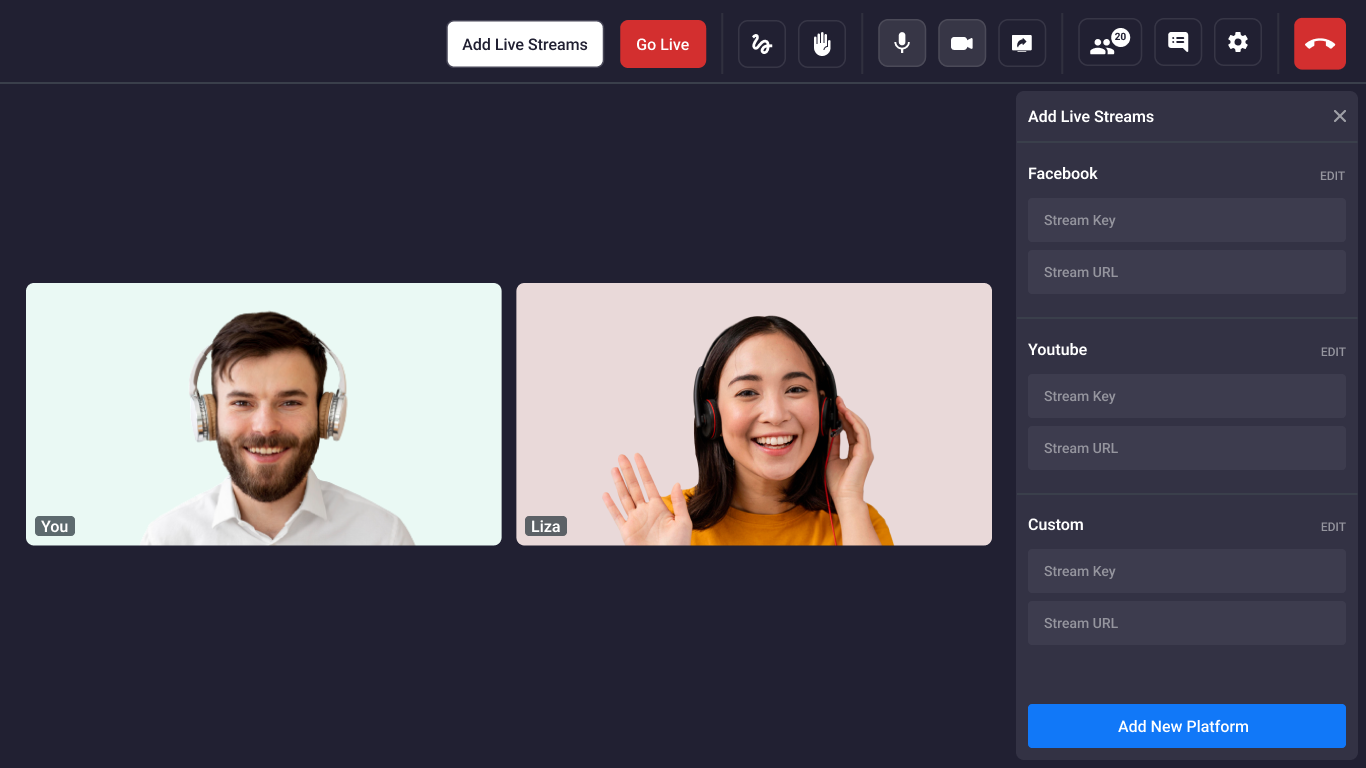
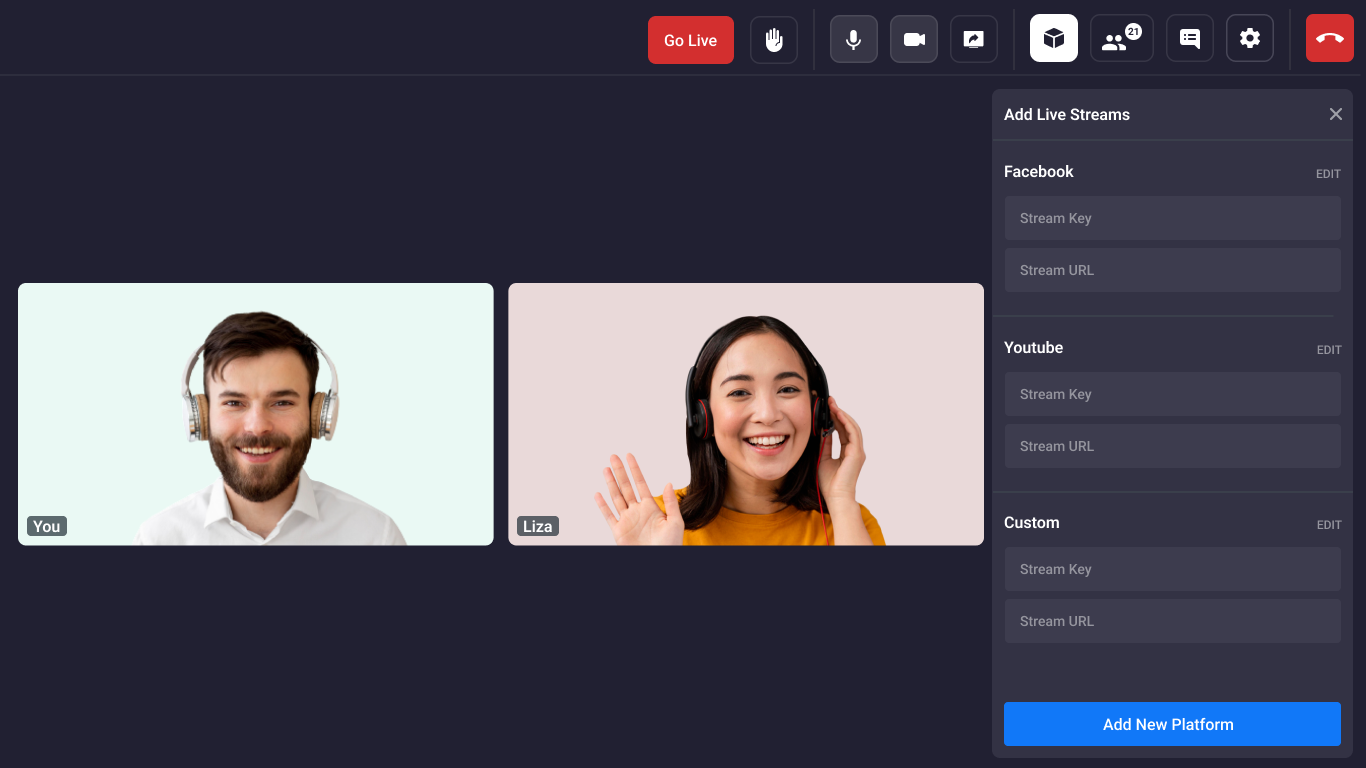
Changes - Images change - `Activites` renamed as More Options

diff --git a/docs/guide/prebuilt-video-and-audio-calling/features/whiteboard.md b/docs/guide/prebuilt-video-and-audio-calling/features/whiteboard.md
@@ -1,10 +1,10 @@
 ---
-title: Whiteboard (BETA)
+title: Whiteboard
 hide_title: false
 hide_table_of_contents: false
 description: This guide will explain about whiteboard.
-sidebar_label: Whiteboard (BETA)
-pagination_label: Whiteboard (BETA)
+sidebar_label: Whiteboard
+pagination_label: Whiteboard
 keywords:
   - Whiteboard
 image: img/videosdklive-thumbnail.jpg
@@ -12,15 +12,15 @@ sidebar_position: 1
 slug: whiteboard
 ---
 
-# Whiteboard (BETA)
+# Whiteboard
 
 This feature allows participants to explain their thoughts to other participants by drawing on an interactive whiteboard.
 
 ### How it works ?
 
-- When `whiteboardEnabled` value is set to `true`, you will be able to see whiteboard icon as displayed in image below. Using this button you can start or stop whiteboard.
+- When `whiteboardEnabled` value is set to `true`, you will be able to see whiteboard option inside `More Options` Tab Panel as displayed in image below. By Clicking that you can start Whiteboard.
 
-![whiteboard button](/img/prebuilt/prebuilt-whiteboard.png)
+![whiteboard button](/img/prebuilt/Whiteboard.png)
 
 - When `drawOnWhiteboard`: value is set to `true`, you will be able to draw on whiteboard, by default it is set to `true`.
 

diff --git a/prebuilt_docs/guide/prebuilt-video-and-audio-calling/features/whiteboard.md b/prebuilt_docs/guide/prebuilt-video-and-audio-calling/features/whiteboard.md
@@ -1,10 +1,10 @@
 ---
-title: Whiteboard (BETA)
+title: Whiteboard
 hide_title: false
 hide_table_of_contents: false
 description: This guide will explain about whiteboard.
-sidebar_label: Whiteboard (BETA)
-pagination_label: Whiteboard (BETA)
+sidebar_label: Whiteboard
+pagination_label: Whiteboard
 keywords:
   - Whiteboard
 image: img/videosdklive-thumbnail.jpg
@@ -12,15 +12,15 @@ sidebar_position: 1
 slug: whiteboard
 ---
 
-# Whiteboard (BETA)
+# Whiteboard
 
 This feature allows participants to explain their thoughts to other participants by drawing on an interactive whiteboard.
 
 ### How it works ?
 
-- When `whiteboardEnabled` value is set to `true`, you will be able to see whiteboard icon as displayed in image below. Using this button you can start or stop whiteboard.
+- When `whiteboardEnabled` value is set to `true`, you will be able to see whiteboard option inside `More Options` Tab Panel as displayed in image below. By Clicking that you can start Whiteboard.
 
-![whiteboard button](/img/prebuilt/prebuilt-whiteboard.png)
+![whiteboard button](/img/prebuilt/Whiteboard.png)
 
 - When `drawOnWhiteboard`: value is set to `true`, you will be able to draw on whiteboard, by default it is set to `true`.
 

diff --git a/prebuilt_docs_versioned_docs/version-0.1.x/guide/prebuilt-video-and-audio-calling/features/whiteboard.md b/prebuilt_docs_versioned_docs/version-0.1.x/guide/prebuilt-video-and-audio-calling/features/whiteboard.md
@@ -1,10 +1,10 @@
 ---
-title: Whiteboard (BETA)
+title: Whiteboard
 hide_title: false
 hide_table_of_contents: false
 description: This guide will explain about whiteboard.
-sidebar_label: Whiteboard (BETA)
-pagination_label: Whiteboard (BETA)
+sidebar_label: Whiteboard
+pagination_label: Whiteboard
 keywords:
   - Whiteboard
 image: img/videosdklive-thumbnail.jpg
@@ -12,15 +12,15 @@ sidebar_position: 1
 slug: whiteboard
 ---
 
-# Whiteboard (BETA)
+# Whiteboard
 
 This feature allows participants to explain their thoughts to other participants by drawing on an interactive whiteboard.
 
 ### How it works ?
 
-- When `whiteboardEnabled` value is set to `true`, you will be able to see whiteboard icon as displayed in image below. Using this button you can start or stop whiteboard.
+- When `whiteboardEnabled` value is set to `true`, you will be able to see whiteboard option inside `More Options` Tab Panel as displayed in image below. By Clicking that you can start Whiteboard.
 
-![whiteboard button](/img/prebuilt/prebuilt-whiteboard.png)
+![whiteboard button](/img/prebuilt/Whiteboard.png)
 
 - When `drawOnWhiteboard`: value is set to `true`, you will be able to draw on whiteboard, by default it is set to `true`.
 

diff --git a/prebuilt_docs_versioned_docs/version-0.2.x/guide/prebuilt-video-and-audio-calling/features/whiteboard.md b/prebuilt_docs_versioned_docs/version-0.2.x/guide/prebuilt-video-and-audio-calling/features/whiteboard.md
@@ -1,10 +1,10 @@
 ---
-title: Whiteboard (BETA)
+title: Whiteboard
 hide_title: false
 hide_table_of_contents: false
 description: This guide will explain about whiteboard.
-sidebar_label: Whiteboard (BETA)
-pagination_label: Whiteboard (BETA)
+sidebar_label: Whiteboard
+pagination_label: Whiteboard
 keywords:
   - Whiteboard
 image: img/videosdklive-thumbnail.jpg
@@ -12,15 +12,15 @@ sidebar_position: 1
 slug: whiteboard
 ---
 
-# Whiteboard (BETA)
+# Whiteboard
 
 This feature allows participants to explain their thoughts to other participants by drawing on an interactive whiteboard.
 
 ### How it works ?
 
-- When `whiteboardEnabled` value is set to `true`, you will be able to see whiteboard icon as displayed in image below. Using this button you can start or stop whiteboard.
+- When `whiteboardEnabled` value is set to `true`, you will be able to see whiteboard option inside `More Options` Tab Panel as displayed in image below. By Clicking that you can start Whiteboard.
 
-![whiteboard button](/img/prebuilt/prebuilt-whiteboard.png)
+![whiteboard button](/img/prebuilt/Whiteboard.png)
 
 - When `drawOnWhiteboard`: value is set to `true`, you will be able to draw on whiteboard, by default it is set to `true`.
 

diff --git a/prebuilt_docs_versioned_docs/version-0.3.x/guide/prebuilt-video-and-audio-calling/features/whiteboard.md b/prebuilt_docs_versioned_docs/version-0.3.x/guide/prebuilt-video-and-audio-calling/features/whiteboard.md
@@ -1,10 +1,10 @@
 ---
-title: Whiteboard (BETA)
+title: Whiteboard
 hide_title: false
 hide_table_of_contents: false
 description: This guide will explain about whiteboard.
-sidebar_label: Whiteboard (BETA)
-pagination_label: Whiteboard (BETA)
+sidebar_label: Whiteboard
+pagination_label: Whiteboard
 keywords:
   - Whiteboard
 image: img/videosdklive-thumbnail.jpg
@@ -12,15 +12,15 @@ sidebar_position: 1
 slug: whiteboard
 ---
 
-# Whiteboard (BETA)
+# Whiteboard
 
 This feature allows participants to explain their thoughts to other participants by drawing on an interactive whiteboard.
 
 ### How it works ?
 
-- When `whiteboardEnabled` value is set to `true`, you will be able to see whiteboard icon as displayed in image below. Using this button you can start or stop whiteboard.
+- When `whiteboardEnabled` value is set to `true`, you will be able to see whiteboard option inside `More Options` Tab Panel as displayed in image below. By Clicking that you can start Whiteboard.
 
-![whiteboard button](/img/prebuilt/prebuilt-whiteboard.png)
+![whiteboard button](/img/prebuilt/Whiteboard.png)
 
 - When `drawOnWhiteboard`: value is set to `true`, you will be able to draw on whiteboard, by default it is set to `true`.
 

diff --git a/prebuilt_docs_versioned_docs/version-0.3.x/guide/prebuilt-video-and-audio-calling/features/go-live-social-media.md b/prebuilt_docs_versioned_docs/version-0.3.x/guide/prebuilt-video-and-audio-calling/features/go-live-social-media.md
@@ -29,9 +29,12 @@ This guide will provide an overview of how participant can start and stop broadc
 
 ### Live streaming flow
 
-1. Click on `Add Live Streams`.
-2. Add your streaming platforms there
-3. Now one can live their streams on different platforms by hitting `Go Live` button
+1. Click on `More Options` Button you can find `Add Live Streams` selection option.
+
+![Go-Live](/img/prebuilt/more-options.png)
+
+2. Add your streaming platforms there.
+3. Now one can live their streams on different platforms by hitting `Go Live` button.
 
 ### Live streaming attributes
 

diff --git a/docs/guide/prebuilt-video-and-audio-calling/features/go-live-hls.md b/docs/guide/prebuilt-video-and-audio-calling/features/go-live-hls.md
@@ -49,9 +49,9 @@ In `CONFERENCE` mode you can toggle other participant mode also. like you can ad
 
 You can click on more button to see add as co-host icon.
 
-![Go live on Videosdk](/img/prebuilt/prebuilt-more-icon-click.png)
+![Go live on Videosdk](/img/prebuilt/More.png)
 
-![Go live on Videosdk](/img/prebuilt/prebuilt-add-cohost.png)
+![Go live on Videosdk](/img/prebuilt/Add-as-a-cohost.png)
 
 When you click on `Add as a Co-host` button other participant recive popup. whethere participant can accept or deny. if you accept than only participant add as a cohost.
 

diff --git a/prebuilt_docs/guide/prebuilt-video-and-audio-calling/features/go-live-hls.md b/prebuilt_docs/guide/prebuilt-video-and-audio-calling/features/go-live-hls.md
@@ -49,9 +49,9 @@ In `CONFERENCE` mode you can toggle other participant mode also. like you can ad
 
 You can click on more button to see add as co-host icon.
 
-![Go live on Videosdk](/img/prebuilt/prebuilt-more-icon-click.png)
+![Go live on Videosdk](/img/prebuilt/More.png)
 
-![Go live on Videosdk](/img/prebuilt/prebuilt-add-cohost.png)
+![Go live on Videosdk](/img/prebuilt/Add-as-a-cohost.png)
 
 When you click on `Add as a Co-host` button other participant recive popup. whethere participant can accept or deny. if you accept than only participant add as a cohost.
 

diff --git a/prebuilt_docs_versioned_docs/version-0.3.x/guide/prebuilt-video-and-audio-calling/features/go-live-hls.md b/prebuilt_docs_versioned_docs/version-0.3.x/guide/prebuilt-video-and-audio-calling/features/go-live-hls.md
@@ -50,9 +50,9 @@ In `CONFERENCE` mode you can toggle other participant mode also. like you can ad
 
 You can click on more button to see add as co-host icon.
 
-![Go live on Videosdk](/img/prebuilt/prebuilt-more-icon-click.png)
+![Go live on Videosdk](/img/prebuilt/More.png)
 
-![Go live on Videosdk](/img/prebuilt/prebuilt-add-cohost.png)
+![Go live on Videosdk](/img/prebuilt/Add-as-a-cohost.png)
 
 When you click on `Add as a Co-host` button other participant recive popup. whethere participant can accept or deny. if you accept than only participant add as a cohost.
 

diff --git a/docs/guide/prebuilt-video-and-audio-calling/features/remove-participant.md b/docs/guide/prebuilt-video-and-audio-calling/features/remove-participant.md
@@ -21,7 +21,7 @@ This feature will allow any participant to remove other participant in the meeti
 
 - When `removeParticipant` value is set to `true`, you will be able to see remove participant icon in participants panel. By clicking you will be able to remove the participant from meeting.
 
-![Remove participant button](/img/prebuilt/prebuilt-remove-participant.png)
+![Remove participant button](/img/prebuilt/Remove-participant.png)
 
 ### Remove Participant attributes
 

diff --git a/prebuilt_docs/guide/prebuilt-video-and-audio-calling/features/remove-participant.md b/prebuilt_docs/guide/prebuilt-video-and-audio-calling/features/remove-participant.md
@@ -21,7 +21,7 @@ This feature will allow any participant to remove other participant in the meeti
 
 - When `removeParticipant` value is set to `true`, you will be able to see remove participant icon in participants panel. By clicking you will be able to remove the participant from meeting.
 
-![Remove participant button](/img/prebuilt/prebuilt-remove-participant.png)
+![Remove participant button](/img/prebuilt/Remove-participant.png)
 
 ### Remove Participant attributes
 

diff --git a/prebuilt_docs_versioned_docs/version-0.1.x/guide/prebuilt-video-and-audio-calling/features/remove-participant.md b/prebuilt_docs_versioned_docs/version-0.1.x/guide/prebuilt-video-and-audio-calling/features/remove-participant.md
@@ -21,7 +21,7 @@ This feature will allow any participant to remove other participant in the meeti
 
 - When `removeParticipant` value is set to `true`, you will be able to see remove participant icon in participants panel. By clicking you will be able to remove the participant from meeting.
 
-![Remove participant button](/img/prebuilt/prebuilt-remove-participant.png)
+![Remove participant button](/img/prebuilt/Remove-participant.png)
 
 ### Remove Participant attributes
 
